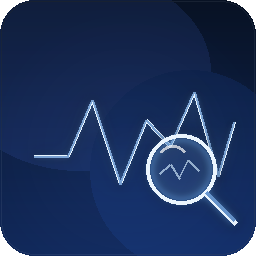
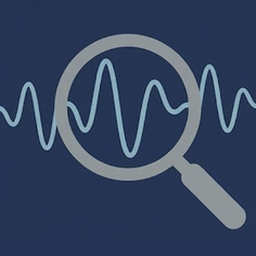
Prepare 1.0.0 republish

diff --git a/src-webview/waveScope.css b/src-webview/waveScope.css
@@ -360,7 +360,8 @@ body {
 .wave-loop-label {
   flex: 0 1 auto;
   color: rgba(110, 168, 255, 0.96);
-  max-width: min(210px, 22vw);
+  width: 156px;
+  max-width: none;
   overflow: hidden;
   text-overflow: ellipsis;
 }
@@ -371,7 +372,10 @@ body {
 }
 
 .wave-toolbar-pill-zoom {
+  justify-content: center;
+  width: 84px;
   color: rgba(239, 246, 255, 0.94);
+  text-align: center;
 }
 
 .wave-toolbar-actions {
@@ -401,10 +405,12 @@ body {
 
 .wave-toolbar-group-loop {
   flex: 0 0 auto;
+  min-width: 220px;
 }
 
 .wave-toolbar-group-zoom {
   flex: 0 0 auto;
+  min-width: 206px;
 }
 
 .wave-toolbar-group-follow {
@@ -524,6 +530,11 @@ body {
   border-color: rgba(148, 163, 184, 0.14);
   color: rgba(203, 213, 225, 0.84);
   background: linear-gradient(180deg, rgba(15, 23, 42, 0.82) 0%, rgba(9, 14, 25, 0.82) 100%);
+}
+
+.wave-tool-button-quiet[aria-hidden="true"] {
+  visibility: hidden;
+  pointer-events: none;
 }
 
 .waveform-viewport {

diff --git a/src-webview/waveScope.ts b/src-webview/waveScope.ts
@@ -2475,6 +2475,7 @@ function renderWaveformUi() {
   const span = Math.max(0, range.end - range.start);
   const zoomFactor = duration > 0 && span > 0 ? duration / span : 1;
   const loopLabelRange = state.selectionDraft ?? state.loopRange;
+  const hasCommittedLoopRange = Boolean(state.loopRange);
 
   elements.waveZoomReset.textContent = 'Reset';
   if (elements.waveZoomChip) {
@@ -2495,7 +2496,9 @@ function renderWaveformUi() {
   elements.waveLoopLabel.textContent = loopLabelRange
     ? `Loop ${formatAxisLabel(loopLabelRange.start)} - ${formatAxisLabel(loopLabelRange.end)}`
     : 'Drag to set loop';
-  elements.waveClearLoop.hidden = !state.loopRange;
+  elements.waveClearLoop.disabled = !hasCommittedLoopRange;
+  elements.waveClearLoop.tabIndex = hasCommittedLoopRange ? 0 : -1;
+  elements.waveClearLoop.setAttribute('aria-hidden', hasCommittedLoopRange ? 'false' : 'true');
 
   renderWaveformAxis();
   applyWaveformOverviewThumb();

diff --git a/src/waveScopeEditor.ts b/src/waveScopeEditor.ts
@@ -267,7 +267,7 @@ export class WaveScopeEditorProvider implements vscode.CustomReadonlyEditorProvi
               </div>
               <div class="wave-toolbar-group wave-toolbar-group-loop">
                 <div id="wave-loop-label" class="wave-toolbar-pill wave-toolbar-pill-loop">Drag to set loop</div>
-                <button id="wave-clear-loop" class="wave-tool-button wave-tool-button-quiet" type="button" hidden>Clear</button>
+                <button id="wave-clear-loop" class="wave-tool-button wave-tool-button-quiet" type="button" aria-hidden="true" tabindex="-1" disabled>Clear</button>
               </div>
             </div>
           </div>

diff --git a/README.md b/README.md
@@ -1,30 +1,32 @@
 # Wave Scope
 
-<p align="center">Inspect audio files in VS Code with synchronized waveform, spectrogram, playback, and loudness views.</p>
+<p align="center">
+  <img src="./images/icon.png" width="128" alt="Wave Scope icon">
+</p>
 
-Wave Scope is a custom read-only audio viewer for VS Code. Open a supported audio file and inspect timing, frequency content, playback position, loop ranges, metadata, and loudness without leaving the editor.
+<p align="center">
+  <strong>Inspect audio files in VS Code with synchronized waveform, spectrogram, playback, and loudness views.</strong>
+</p>
 
- For metadata and decode fallback, install the `ffmpeg` CLI first.
+<p align="center">
+  Open a supported audio file and explore timing, frequency content, loop ranges, metadata, and loudness without leaving the editor.
+</p>
 
- macOS
- ```bash
- brew install ffmpeg
- ```
+<p align="center">
+  <img src="./images/wave-scope-full.png" alt="Wave Scope waveform and spectrogram screenshot">
+</p>
 
- Windows
- ```powershell
- winget install --id Gyan.FFmpeg --exact
- ```
+## Overview
 
- Other platforms: [ffmpeg.org/download.html](https://ffmpeg.org/download.html)
+Wave Scope is a custom read-only audio viewer for VS Code. It is built for quick inspection and analysis rather than editing, so you can stay inside your workspace while reviewing audio assets, recordings, stems, or exports.
 
-| Inspect | Navigate | Analyze |
+| See | Control | Review |
 | --- | --- | --- |
 | Waveform and spectrogram side by side | Seek, zoom, pan, follow playback, and loop sections | Metadata, LUFS/LRA, sample peak, and true peak summary |
 
 ## Highlights
 
-- Open common audio formats directly in a dedicated VS Code view
+- Open common audio formats in a dedicated VS Code view
 - View waveform and spectrogram together in a fullscreen-first, resizable layout
 - Click to seek, drag to create loop ranges, and refine loop points with direct handles
 - Use follow mode, overview scrolling, and zoom controls for long recordings
@@ -32,9 +34,32 @@ Wave Scope is a custom read-only audio viewer for VS Code. Open a supported audi
 - Inspect integrated loudness, loudness range, sample peak, and true peak at a glance
 - Use optional `ffmpeg` and `ffprobe` integration for richer metadata and decode fallback on local files
 
+## Quick Start
+
+1. Install the extension.
+2. Open a supported audio file in VS Code.
+3. If VS Code selects `Wave Scope`, the file opens directly in the custom view.
+4. If it opens somewhere else, use `Reopen Editor With...` or run `Wave Scope: Open Active Audio File in Wave Scope` from the Command Palette.
+
+> [!NOTE]
+> VS Code's built-in `Media Preview` currently takes precedence for `.mp3`, `.wav`, `.ogg`, and `.oga`, so those formats may not open in `Wave Scope` automatically on first install.
+
+To make Wave Scope the default editor for those formats, use `Reopen Editor With...` and choose `Set as Default`, or add this to your VS Code settings:
+
+```json
+{
+  "workbench.editorAssociations": {
+    "*.mp3": "waveScope.editor",
+    "*.wav": "waveScope.editor",
+    "*.ogg": "waveScope.editor",
+    "*.oga": "waveScope.editor"
+  }
+}
+```
+
 ## Supported Formats
 
-`Wave Scope` registers as the default editor for these file types (with ffmpeg decoder):
+Wave Scope contributes a custom editor for:
 
 - `.wav`
 - `.wave`
@@ -48,22 +73,10 @@ Wave Scope is a custom read-only audio viewer for VS Code. Open a supported audi
 - `.aif`
 - `.aiff`
 
-## Requirements
-
-- VS Code `1.100.0` or later
-- Optional but recommended: `ffmpeg` CLI tools including `ffprobe` for richer metadata and decode fallback on local filesystem files
-
-## Getting Started
-
-1. Install the extension.
-2. Open a supported audio file in VS Code.
-3. The file opens in `Wave Scope` automatically.
-4. To open manually, run `Wave Scope: Open Active Audio File in Wave Scope` from the Command Palette or use `Reopen Editor With...`.
-
-## Interaction
+## Controls
 
 - `Space`: play or pause
-- `←` / `→`: seek backward or forward by 5 seconds
+- `Left Arrow` / `Right Arrow`: seek backward or forward by 5 seconds
 - `-` / `=`: zoom out or zoom in
 - Click on the waveform or spectrogram: seek to that point
 - Drag on the waveform or spectrogram: create a loop range
@@ -80,14 +93,27 @@ Wave Scope works out of the box for formats the runtime can decode natively. Ins
 
 Quick install examples:
 
-- macOS (Homebrew): [`brew install ffmpeg`](https://formulae.brew.sh/formula/ffmpeg)
-- Windows (winget): [`winget install --id Gyan.FFmpeg --exact`](https://github.com/microsoft/winget-pkgs/tree/master/manifests/g/Gyan/FFmpeg)
-- Other platforms: use your package manager of choice from [ffmpeg.org/download.html](https://ffmpeg.org/download.html)
+```bash
+# macOS (Homebrew)
+brew install ffmpeg
+```
+
+```powershell
+# Windows (winget)
+winget install --id Gyan.FFmpeg --exact
+```
+
+Other platforms: [ffmpeg.org/download.html](https://ffmpeg.org/download.html)
 
 If the binaries are not on `PATH`, configure them with:
 
 - `waveScope.ffmpegPath`
 - `waveScope.ffprobePath`
+
+## Requirements
+
+- VS Code `1.100.0` or later
+- Optional but recommended: `ffmpeg` CLI tools including `ffprobe`
 
 ## Settings
 
